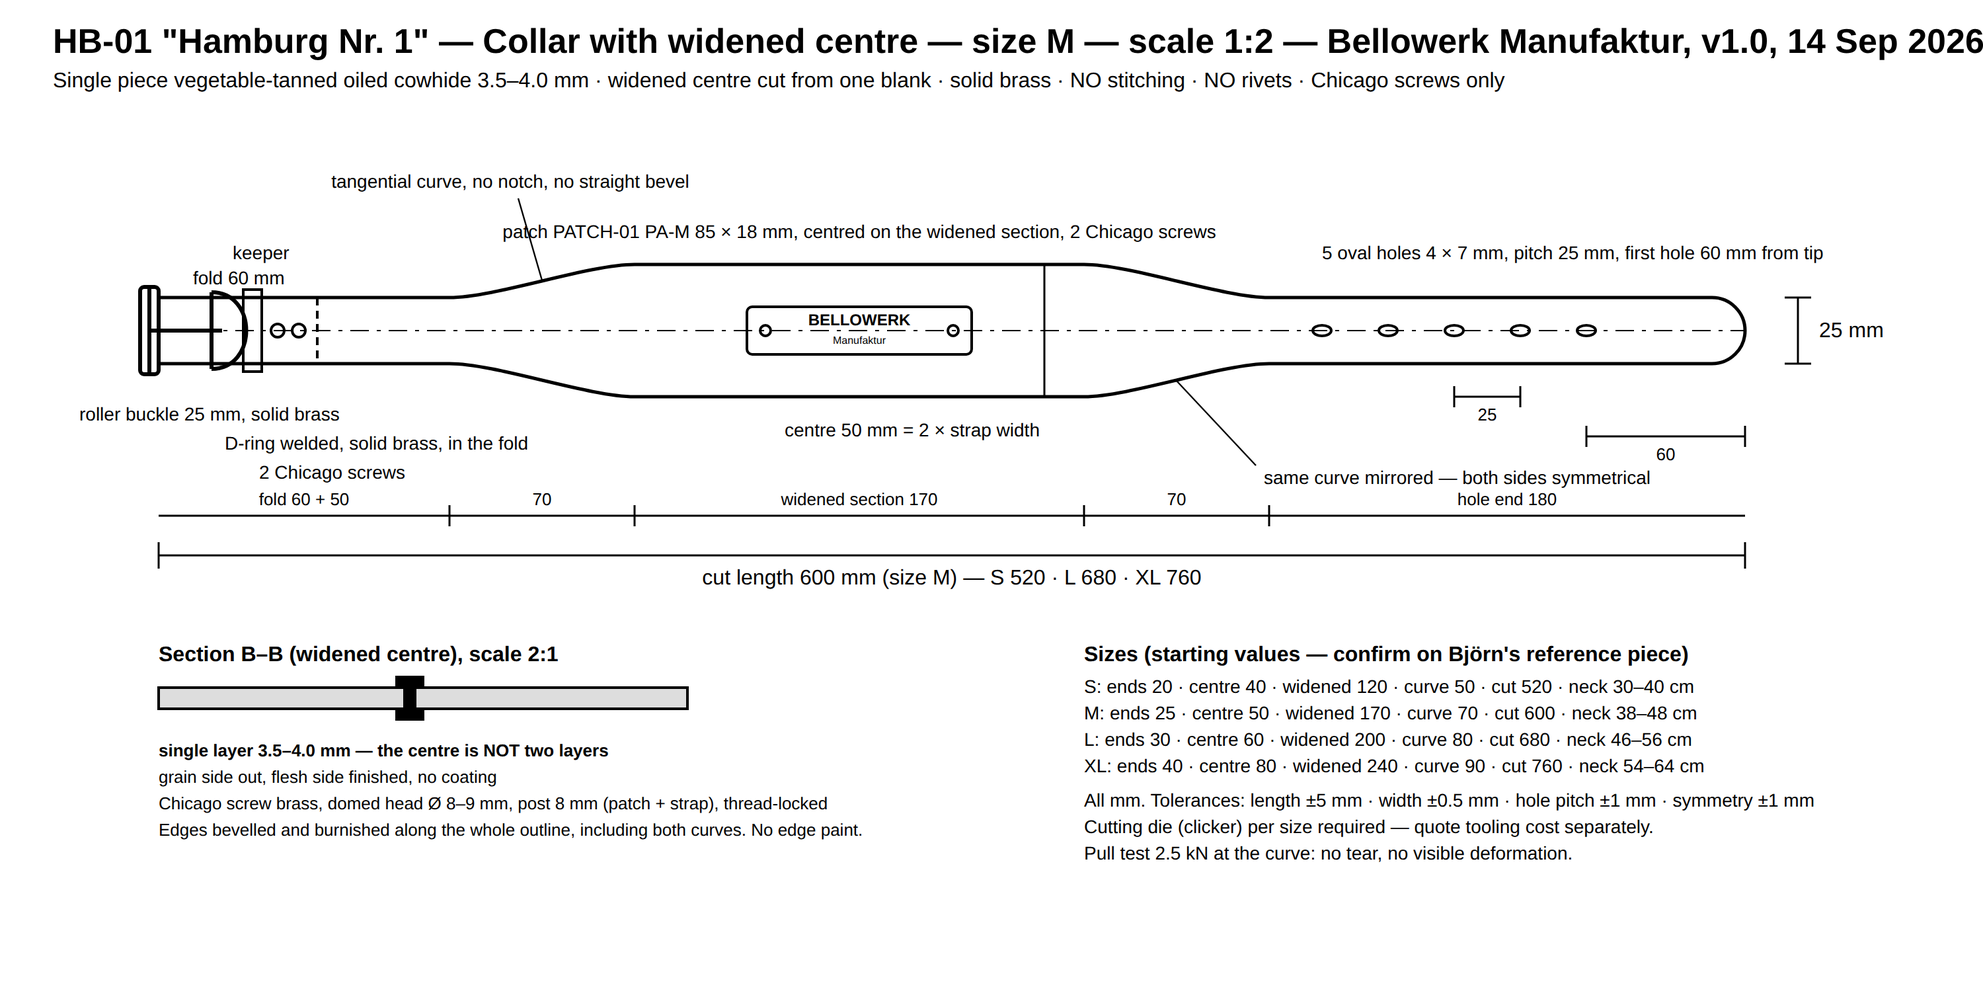
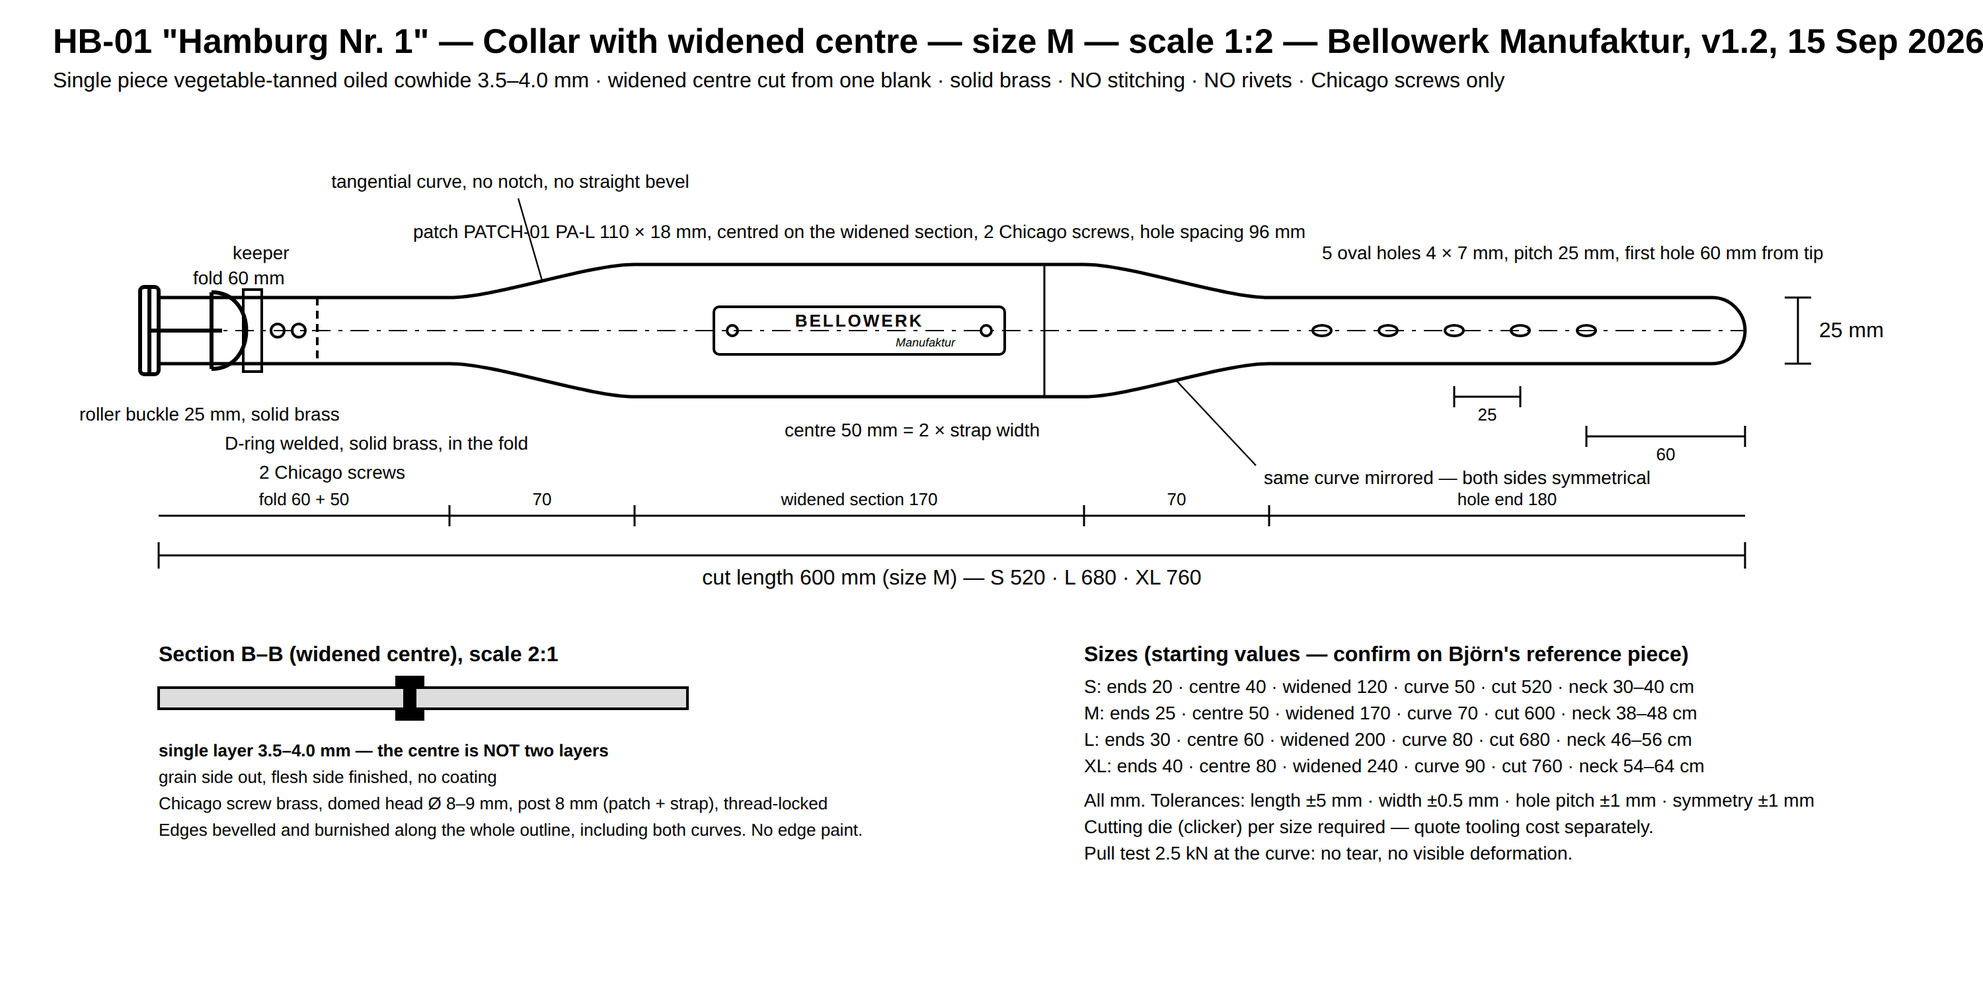
Widen the patch to PA-L and fix the engraving for Hamburg Nr. 1
Björn, 15 Sep: the patch on the widened collar goes 30 % wider, and the
engraving reads "BELLOWERK" on top with "Manufaktur" smaller underneath on the
right. PA-L 110 × 18 mm is now a regular size, not an option for long names, and
it is what HB-01 carries — hole spacing 96 mm, cap height 5.5 mm. The patch
drawing gained the size, the collar drawing shows it in place.

The old name is now marked in the tech pack as not to be produced again.

Adds a rendered view of the finished collar (HB-01-ansicht.svg): grey leather,
brass, the new patch, drawn to the tech pack's dimensions. It is a drawing, not
a photograph — the shop page and the approval folder both say so, and the photo
list stands.

Shop page: origin stays one small line under the manufacturer details, the GPSR
block is in with the address lines still empty.

Claude-Session: https://claude.ai/code/session_01Xfk4JVduxLVZhHZCxPXS15

Changed region(s): [[0.217, 0.2164, 0.651, 0.2474], [0.372, 0.3092, 0.496, 0.3401], [0.868, 0.0309, 0.93, 0.0618]]

diff --git a/sourcing/bellowerk/shop/index.html b/sourcing/bellowerk/shop/index.html
@@ -119,6 +119,11 @@ td{padding:8px 10px 8px 0; border-top:1px solid var(--linie-fein)}
 td.zahl{font-size:13.5px}
 .pflege{font-size:15.5px; color:var(--tinte-weich)}
 .pflege p{margin-bottom:.6em}
+.gpsr{line-height:1.9}
+.feld{
+  display:inline-block; min-width:210px; border-bottom:1px dashed var(--rost);
+  color:var(--rost); font-size:13px; font-family:"Archivo",sans-serif
+}
 
 /* Hinweisblock */
 .klaeren{margin-top:52px; border:1px solid var(--rost); border-radius:3px; padding:20px 22px; background:var(--blatt)}
@@ -145,7 +150,7 @@ td.zahl{font-size:13.5px}
 @media (prefers-reduced-motion:reduce){*{transition:none!important}}
 </style>
 
-<div class="entwurf">Entwurf für den Shop · <b>Alle Produktfotos fehlen noch</b> — die gestrichelten Flächen sind die Aufnahmeliste · Preis und Herkunftsangabe sind Vorschläge</div>
+<div class="entwurf">Entwurf für den Shop · Das Hauptbild ist eine <b>Darstellung, kein Foto</b> — die gestrichelten Flächen sind die Aufnahmeliste · Preis ist ein Vorschlag</div>
 
 <div class="seite">
   <header class="marke">
@@ -157,11 +162,15 @@ td.zahl{font-size:13.5px}
   <div class="produkt">
     <div>
       <figure class="buehne">
-        <img src="media/HB-01-hamburg.png" alt="Maßzeichnung Hamburg Nr. 1: Enden 25 mm, Mitte 50 mm, tangentiale Bögen">
-        <figcaption>Platzhalter: bis die Fotos da sind, steht hier die Werkstattzeichnung. Größe M, Maße in mm.</figcaption>
+        <img src="media/HB-01-ansicht.jpg" alt="Hamburg Nr. 1 in Grau, flach ausgelegt: Messingschnalle, D-Ring, breite Mitte mit graviertem Lederpatch, Lochreihe">
+        <figcaption>Darstellung nach Tech Pack HB-01 v1.2 — <b>keine Fotografie</b>. Sie zeigt Maße, Patchgröße und Beschläge maßstäblich; Foto 1 aus der Liste unten ersetzt sie später.</figcaption>
+      </figure>
+      <figure class="buehne" style="margin-top:14px">
+        <img src="media/HB-01-hamburg.png" alt="Maßzeichnung Hamburg Nr. 1">
+        <figcaption>Werkstattzeichnung, Größe M, Maße in mm — gehört nicht in den Shop, steht hier zum Abgleich.</figcaption>
       </figure>
       <div class="streifen">
-        <div class="platz"><span class="nr">Foto 1</span><span class="was">Gesamt, flach</span><span class="wie">Narbenseite oben, Schnalle links, Lineal daneben</span></div>
+        <div class="platz"><span class="nr">Foto 1</span><span class="was">Gesamt, flach</span><span class="wie">ersetzt die Darstellung oben: Narbenseite oben, Schnalle links, Lineal</span></div>
         <div class="platz"><span class="nr">Foto 2</span><span class="was">Verbreiterung mit Patch</span><span class="wie">schräg, Streiflicht, Gravur lesbar</span></div>
         <div class="platz"><span class="nr">Foto 3</span><span class="was">Bogen im Detail</span><span class="wie">Makro auf die polierte Kante</span></div>
         <div class="platz"><span class="nr">Foto 4</span><span class="was">Messing</span><span class="wie">Schnalle, D-Ring, Buchschraube</span></div>
@@ -208,13 +217,13 @@ td.zahl{font-size:13.5px}
     <h2>Vorn breit, wo der Hund zieht</h2>
     <p>Hamburg Nr. 1 ist aus einem Stück Fettleder geschnitten. Die Mitte läuft über einen weichen Bogen auf die doppelte Breite und legt den Zug auf mehr Fläche — genau dort, wo er ankommt. Zu den Enden hin wird das Band wieder schmal, damit Schnalle und Lochreihe schlank bleiben und das Halsband unter dem Fell verschwindet.</p>
     <p>Breiter, nicht dicker: es bleibt eine Lage Leder, 3,5 bis 4 Millimeter, durchgefärbt und pflanzlich gegerbt. Kein Futter, keine Naht, keine Niete. Zusammengehalten wird alles von Buchschrauben aus massivem Messing — genau wie Schnalle und D-Ring. Das Messing ist unlackiert und dunkelt nach. Das ist gewollt; wer es blank mag, poliert es mit einem weichen Tuch.</p>
-    <p>Auf der Verbreiterung sitzt der gravierte Lederpatch. Er ist der einzige Schmuck, den das Halsband hat.</p>
+    <p>Auf der Verbreiterung sitzt der gravierte Lederpatch aus cognacfarbenem Leder, 110 Millimeter lang — er nutzt die breite Mitte aus. Er ist der einzige Schmuck, den das Halsband hat.</p>
     <ul class="merkmale">
       <li><span>Fettleder, pflanzlich gegerbt, durchgefärbt, 3,5–4,0 mm</span></li>
       <li><span>Rollschnalle, D-Ring und Buchschrauben aus massivem Messing</span></li>
       <li><span>Ohne Naht, ohne Niete, ohne Kunststoff</span></li>
       <li><span>Kanten geschrägt und poliert, auch in den Bögen</span></li>
-      <li><span>Lederpatch cognac, lasergraviert</span></li>
+      <li><span>Lederpatch cognac, lasergraviert, 110 × 18 mm</span></li>
       <li><span>Eine Saison an fremden Hunden getestet, bevor das Modell in den Verkauf geht</span></li>
     </ul>
   </section>
@@ -246,8 +255,15 @@ td.zahl{font-size:13.5px}
     <section>
       <h3>Herstellerangaben</h3>
       <div class="pflege">
-        <p>Bellowerk Manufaktur, Hamburg<br><span style="color:var(--rost)">Postanschrift fehlt noch — GPSR-Pflichtangabe</span></p>
-        <p>Modell HB-01 · Chargennummer auf dem Anhänger<br><span style="color:var(--rost)">Herkunftsangabe noch zu entscheiden</span></p>
+        <p class="gpsr">
+          Bellowerk Manufaktur<br>
+          <span class="feld">Straße und Hausnummer</span><br>
+          <span class="feld">PLZ und Ort</span><br>
+          <span class="feld">E-Mail</span>
+        </p>
+        <p style="font-size:13.5px; color:var(--tinte-leise); margin-top:14px">
+          Modell HB-01 · Charge auf dem Anhänger · Entwurf und Prüfung in Hamburg, gefertigt nach unserer Zeichnung, Made in China
+        </p>
       </div>
     </section>
   </div>
@@ -255,11 +271,11 @@ td.zahl{font-size:13.5px}
   <section class="klaeren">
     <h3>Bevor das online geht</h3>
     <ol>
-      <li><b>Die Herkunft muss stimmen.</b> Im Markenwissen steht „aus eigener Werkstatt“. Wenn Hamburg Nr. 1 in China gefertigt wird, darf dieser Satz so nicht im Shop stehen. Vorschlag: „In Hamburg entworfen und geprüft, gefertigt nach unserer Zeichnung“ plus „Made in China“ auf dem Anhänger — du entscheidest die Formulierung.</li>
-      <li><b>GPSR-Anschrift.</b> Name und Postanschrift des Inverkehrbringers sind seit Dezember 2024 Pflicht, im Shop und auf dem Anhänger.</li>
-      <li><b>Der Patch trägt noch den alten Namen.</b> Auf allen vorhandenen Stücken steht „Herr Bello & Frau Wuff“. Für Fotos und Verkauf brauchen wir Stücke mit „BELLOWERK“ — also erst das Vektorlogo, dann das Goldmuster, dann das Shooting.</li>
+      <li><b>Deine Anschrift für die GPSR-Angabe.</b> Die Zeilen stehen oben, sie sind nur noch leer: Straße, PLZ und Ort, E-Mail. Pflicht seit Dezember 2024, im Shop und auf dem Anhänger. Sag sie mir, dann steht sie drin.</li>
+      <li><b>Der Patch trägt auf allen vorhandenen Stücken noch den alten Namen.</b> Die Gravur ist jetzt festgeschrieben — „BELLOWERK“ oben, „Manufaktur“ kleiner rechts darunter, Patch 110 × 18 mm. Es fehlt deine Vektordatei, dann Goldmuster, dann das Shooting.</li>
       <li><b>Preis 99 € bestätigen</b>, und ob Hamburg Nr. 4 (das glatte Halsband) darunter liegt — sonst steht die Serie ohne Staffel da.</li>
     </ol>
+    <p style="font-size:14px; color:var(--tinte-weich); margin:14px 0 0">Erledigt am 15.9.: Herkunftsangabe bleibt klein und steht als eine Zeile bei den Herstellerangaben.</p>
   </section>
 
   <section class="fotoliste">
@@ -282,7 +298,7 @@ td.zahl{font-size:13.5px}
     </p>
   </section>
 
-  <p class="fuss">Entwurf vom 14. September 2026 · Inhalte aus dem Tech Pack HB-01 „Hamburg Nr. 1“ und dem Markenwissen · Der Kauf-Knopf tut hier nichts, die Seite ist eine Vorlage für den Shop.</p>
+  <p class="fuss">Entwurf vom 15. September 2026 · Inhalte aus dem Tech Pack HB-01 „Hamburg Nr. 1“ und dem Markenwissen · Der Kauf-Knopf tut hier nichts, die Seite ist eine Vorlage für den Shop.</p>
 </div>
 
 <script>

diff --git a/sourcing/bellowerk/freigabe/index.html b/sourcing/bellowerk/freigabe/index.html
@@ -224,18 +224,22 @@ textarea::placeholder{color:var(--tinte-leise)}
   "meta": [
     "Bellowerk Manufaktur, Hamburg",
     "Abteilung 01 Innovation · 05 Einkauf China",
-    "Stand: 14. September 2026",
+    "Stand: 15. September 2026",
     "Quelle: sourcing/bellowerk"
   ],
   "modelle": [
     {
       "code": "HB-01",
       "name": "Hamburg Nr. 1 — Halsband mit Mittelverbreiterung",
-      "stand": "Tech Pack v1.1",
+      "stand": "Tech Pack v1.2",
       "zeichnung": "media/HB-01-hamburg.png",
       "zeichnungText": "HB-01, Größe M: Enden 25 mm, Mitte 50 mm, tangentiale Bögen 70 mm, Patch mittig auf der Verbreiterung",
-      "fotos": [],
-      "fehltFoto": "Dein Foto vom 13. Juni 2022 (graues Halsband, cognac Patch, Messingschnalle) steckt bisher nur im Chat. Leg es bitte als bilder/HB-01-hamburg-gesamt.jpg ins Repo, dann steht es hier und geht an den Lieferanten mit.",
+      "fotos": [
+        {
+          "src": "media/HB-01-ansicht.jpg",
+          "text": "Darstellung nach Tech Pack, keine Fotografie: Grau, Messing, Patch PA-L 110 mm auf der Verbreiterung"
+        }
+      ],
       "fakten": [
         [
           "Name",
@@ -267,7 +271,7 @@ textarea::placeholder{color:var(--tinte-leise)}
         ],
         [
           "Patch",
-          "PATCH-01 PA-M 85 × 18 mm, mittig auf der Verbreiterung, 2 Buchschrauben"
+          "PATCH-01 PA-L 110 × 18 mm, mittig auf der Verbreiterung, Lochabstand 96 mm — 30 % länger als bisher, entschieden am 15.9.2026"
         ],
         [
           "Beschläge",
@@ -280,6 +284,10 @@ textarea::placeholder{color:var(--tinte-leise)}
         [
           "Vorschlag Order",
           "Muster 1× M grau + 1× M oliv, dann 60 Stück — S 10 · M 20 · L 20 · XL 10"
+        ],
+        [
+          "Noch offen",
+          "Foto vom echten Stück (bilder/HB-01-hamburg-gesamt.jpg) und dein Vektorlogo für die Gravur"
         ]
       ],
       "bau": [
@@ -307,15 +315,6 @@ textarea::placeholder{color:var(--tinte-leise)}
             "170 mm wie gezeichnet",
             "Länger, bis 220 mm",
             "Messe ich nach"
-          ]
-        },
-        {
-          "id": "hb01-patch",
-          "frage": "Patch auf der Verbreiterung",
-          "optionen": [
-            "PA-M 85 mm wie bisher",
-            "Längeres PA-L 110 mm",
-            "Nach dem Muster entscheiden"
           ]
         },
         {
@@ -631,9 +630,9 @@ textarea::placeholder{color:var(--tinte-leise)}
     {
       "code": "PATCH-01",
       "name": "Lederpatch, graviert",
-      "stand": "Tech Pack v1.1",
+      "stand": "Tech Pack v1.2",
       "zeichnung": "media/PATCH-01-lederpatch.png",
-      "zeichnungText": "PATCH-01: PA-M 85 × 18 mm und PA-S 65 × 14 mm, Bohrbild, Schriftfeld (Logo ist Platzhalter)",
+      "zeichnungText": "PATCH-01: PA-L 110 × 18 mm (Hamburg Nr. 1), PA-M 85 × 18 mm, PA-S 65 × 14 mm, Bohrbild, Schriftfeld",
       "fotos": [
         {
           "src": "media/PATCH-01-und-flechtung-detail.jpg",
@@ -659,7 +658,7 @@ textarea::placeholder{color:var(--tinte-leise)}
         ],
         [
           "Größen",
-          "PA-M 85 × 18 mm für 25–40 mm Bänder · PA-S 65 × 14 mm für 20 mm"
+          "PA-L 110 × 18 mm auf Hamburg Nr. 1 · PA-M 85 × 18 mm auf glatten Bändern 25–40 mm · PA-S 65 × 14 mm auf 20 mm"
         ],
         [
           "Gravur",
@@ -667,11 +666,11 @@ textarea::placeholder{color:var(--tinte-leise)}
         ],
         [
           "Schrift",
-          "Zeile 1 Versalien gesperrt +20 % · Zeile 2 Schreibschrift, rechtsbündig darunter"
+          "Zwei Zeilen, feste Reihenfolge: „BELLOWERK“ oben in gesperrten Versalien, „Manufaktur“ kleiner rechts darunter in Schreibschrift"
         ],
         [
           "Löcher",
-          "2 × Ø 4,5 mm, Abstand 71 mm (PA-M) bzw. 51 mm (PA-S)"
+          "2 × Ø 4,5 mm, 7 mm von den Enden → Abstand 96 (PA-L) / 71 (PA-M) / 51 mm (PA-S)"
         ],
         [
           "Befestigung",
@@ -679,11 +678,11 @@ textarea::placeholder{color:var(--tinte-leise)}
         ],
         [
           "Erste Order",
-          "500 Stück PA-M + 500 Stück PA-S, inklusive Schrauben"
+          "je 400 Stück PA-L, PA-M und PA-S, inklusive Buchschrauben"
         ]
       ],
       "bau": [],
-      "warnung": "Auf allen vorhandenen Stücken steht noch HERR BELLO & FRAU WUFF. Das Layout bleibt, der Name wird BELLOWERK — dafür braucht der Lieferant deine Vektordatei mit Schrift in Pfaden. Ohne die Datei kann die Gravur nicht freigegeben werden.",
+      "warnung": "Auf allen vorhandenen Stücken steht noch HERR BELLO & FRAU WUFF — dieser Patch darf so nicht noch einmal produziert werden. Layout bleibt, Name wird BELLOWERK. Dafür braucht der Lieferant deine Vektordatei mit Schrift in Pfaden; ohne die Datei keine Gravurfreigabe.",
       "fragen": [
         {
           "id": "patch-name",
@@ -824,7 +823,7 @@ textarea::placeholder{color:var(--tinte-leise)}
 </script>
 
 <script id="bw-state" type="application/json">
-{"v":1,"modelle":{},"fragen":{},"aktualisiert":null}
+{"v":1,"modelle":{"HB-01":{"status":"freigegeben","notiz":""}},"fragen":{},"aktualisiert":"2026-09-14T20:51:32.388Z"}
 </script>
 
 <script id="bw-js">

diff --git a/sourcing/bellowerk/freigabe/bauen.py b/sourcing/bellowerk/freigabe/bauen.py
@@ -45,8 +45,17 @@ ZEICHNUNGEN = [
 ]
 
 
+# Die Darstellung des fertigen Halsbands liegt als SVG im Shop-Ordner und wird
+# als JPG mitgeliefert, weil sie in Freigabe-Mappe und Shop-Seite steht.
+ANSICHT = ORDNER.parent / "shop" / "HB-01-ansicht.png"
+
+
 def main() -> None:
     ZIEL.mkdir(exist_ok=True)
+    if ANSICHT.exists():
+        bild = Image.open(ANSICHT).convert("RGB")
+        bild.thumbnail((1960, 1960), Image.LANCZOS)
+        bild.save(ZIEL / "HB-01-ansicht.jpg", "JPEG", quality=88, optimize=True, progressive=True)
     gesamt = 0
     for name in FOTOS:
         bild = Image.open(QUELLE / "bilder" / name).convert("RGB")

diff --git a/sourcing/bellowerk/specs/PATCH-01-markenpatch.md b/sourcing/bellowerk/specs/PATCH-01-markenpatch.md
@@ -1,7 +1,8 @@
-# PATCH-01 — Leather Brand Patch "BELLOWERK / Manufaktur" (Tech Pack v1.1, 9 Sep 2026)
+# PATCH-01 — Leather Brand Patch "BELLOWERK / Manufaktur" (Tech Pack v1.2, 15 Sep 2026)
 
 Reference photos: `bilder/HB-04-detail-patch.jpg`, `bilder/HB-04-farben-patch.jpg` (current patch reads
-"HERR BELLO & FRAU WUFF / Manufaktur" — new patch uses the same layout with the new name).
+"HERR BELLO & FRAU WUFF / Manufaktur" — **wrong name, must not be produced again**. Same layout,
+new name: "BELLOWERK" on top, "Manufaktur" smaller underneath on the right.)
 Drawing: `zeichnungen/PATCH-01-lederpatch.png`. Artwork: Björn supplies vector file; placeholder in drawing.
 
 ## Design (as on the existing products)
@@ -16,12 +17,12 @@ in a handwritten script, right-aligned under line 1. No stitching, no glue as th
 | | |
 |---|---|
 | Leather | Vegetable-tanned cowhide, full grain, **2.0–2.5 mm**, colour cognac / medium brown (same on all strap colours: grey, dark brown, olive, cognac). Firm, smooth grain for clean engraving. |
-| Sizes | **PA-M 85 × 18 mm** for 25–40 mm straps (collar M/L/XL, lead 25 mm) · **PA-S 65 × 14 mm** for 20 mm straps (lead LE-01, hand loop HS-01, collar S). Corner radius 3 mm. |
-| Lettering | Line 1 "BELLOWERK": spaced geometric sans-serif capitals as in the existing logo (Futura/Josefin Sans style, tracking +20 %), cap height 4.5 mm (PA-M) / 3.5 mm (PA-S). Line 2 "Manufaktur": brush script as in the logo, x-height 2.5 mm / 2.0 mm, placed under the right half of line 1. Engraving depth 0.2–0.3 mm, dark burn, no paint, no foil. Björn supplies the vector logo; the drawing is a placeholder. |
-| Holes | 2 × Ø 4.5 mm, hole centres 7 mm from each end → spacing **71 mm** (PA-M) / **51 mm** (PA-S) |
+| Sizes | **PA-L 110 × 18 mm** on HB-01 "Hamburg Nr. 1" — the widened centre carries the long patch (Björn, 15 Sep 2026: 30 % wider than PA-M) · **PA-M 85 × 18 mm** for plain 25–40 mm straps (HB-04, HB-02) · **PA-S 65 × 14 mm** for 20 mm straps (lead LE-01, collar S). Corner radius 3 mm. |
+| Lettering | **Two lines, always in this order: "BELLOWERK" on top, "Manufaktur" smaller underneath, set to the right half of line 1.** Line 1: spaced geometric sans-serif capitals (Futura/Josefin Sans style, tracking +20 %), cap height 5.5 mm (PA-L) / 4.5 mm (PA-M) / 3.5 mm (PA-S). Line 2: brush script, x-height 3.0 / 2.5 / 2.0 mm. Engraving depth 0.2–0.3 mm, dark burn, no paint, no foil. Björn supplies the vector logo; the drawing is a placeholder. |
+| Holes | 2 × Ø 4.5 mm, hole centres 7 mm from each end → spacing **96 mm** (PA-L) / **71 mm** (PA-M) / **51 mm** (PA-S) |
 | Screws | Chicago screws solid brass, head Ø 8–9 mm domed (as on photos), post 8 mm (patch + strap), thread-locked |
 | Edges | Cut clean, lightly bevelled, burnished, no edge paint |
-| Position | Collar: centred on strap, 30 mm behind buckle fold. Lead: 80 mm from hook A. Hand loop: on the overlap. |
+| Position | HB-01: centred on the widened section, both directions. HB-04/HB-02: centred on strap, 30 mm behind the buckle fold. Lead LE-01: 80 mm from hook A. |
 
 Artwork: vector (AI/PDF/SVG), text converted to outlines, 1:1, black = engraved. Min line width 0.3 mm,
 min gap 0.5 mm. Supplier to send a digital proof and one engraved sample before production.
@@ -30,8 +31,7 @@ min gap 0.5 mm. Supplier to send a digital proof and one engraved sample before 
 
 Same patch, but engraved with the **dog's name in spaced serif capitals** (as "AUGUST", "TILDA",
 "ENZO" in `bilder/PATCH-01-namenspatch-august.jpg`, `PATCH-01-namensgravur-detail.jpg`): one line,
-cap height 6 mm (PA-M) / 5 mm (PA-S), tracking +20 %, max. 10 characters (longer names → patch
-PA-L 110 × 18 mm). Björn's decision: **first order = Bellowerk patch only, no names.** Ask the factory
+cap height 6 mm (PA-M) / 5 mm (PA-S), tracking +20 %, max. 10 characters (longer names → the patch is already PA-L on HB-01). Björn's decision: **first order = Bellowerk patch only, no names.** Ask the factory
 now whether they can engrave single pieces on demand later and at what price/lead time per piece
 (question 5 below), so the option is open.
 
@@ -47,14 +47,14 @@ PU or bonded leather, stitching.
 
 ## Quantity
 
-Samples: 5 pcs each size, engraved, with screws. Then **500 pcs PA-M + 500 pcs PA-S** with screws.
+Samples: 5 pcs each size, engraved, with screws. Then **400 pcs PA-L + 400 pcs PA-M + 400 pcs PA-S** with screws.
 Preferred: the collar/lead factory makes the patch in-house (same hide family). If they cannot laser
 engrave, a patch supplier delivers to the factory.
 
 ## Quotation questions
 
 1. Do you laser-engrave leather in-house? Send a photo of an engraved sample.
-2. Unit price 500 / 1000 pcs, each size, incl. brass screws
+2. Unit price 400 / 1000 pcs, each size (PA-L, PA-M, PA-S), incl. brass screws
 3. Sample cost/time, lead time
 4. Leather colour match to our photos — send swatches of cognac / medium brown
 5. Later option: engraving of individual dog names (serif capitals) on single patches — possible? Price and lead time per piece?

diff --git a/sourcing/bellowerk/specs/HB-01-hamburg.md b/sourcing/bellowerk/specs/HB-01-hamburg.md
@@ -1,4 +1,4 @@
-# HB-01 "Hamburg Nr. 1" — Collar with Widened Centre (Tech Pack v1.1, 14 Sep 2026)
+# HB-01 "Hamburg Nr. 1" — Collar with Widened Centre (Tech Pack v1.2, 15 Sep 2026)
 
 Bellowerk Manufaktur, Hamburg, Germany. Contact: Björn (owner).
 Drawing: `zeichnungen/HB-01-hamburg.png`. Reference: Björn's own piece, photographed 13 June 2022
@@ -26,7 +26,7 @@ As HB-04 without exception:
 | D-ring | Welded, ground smooth, solid brass, inner width = end strap width, wire Ø 4 mm (20/25 mm) or 5 mm (30/40 mm), min. 3 kN. |
 | Keeper | Leather loop, same leather, 1 Chicago screw. |
 | Screws | Chicago screws, solid brass, domed head Ø 8–9 mm (as on the photo), post 8 mm, thread-locked. |
-| Patch | PATCH-01 PA-M 85 × 18 mm, 2 Chicago screws, centred on the widened section. |
+| Patch | PATCH-01 **PA-L 110 × 18 mm** (hole spacing 96 mm), 2 Chicago screws, centred on the widened section — the long patch is part of this model, not an option. |
 | Edges | Bevelled both sides, burnished, **including both curves**. No edge paint. |
 | Holes | Oval punch, 5 holes, pitch 25 mm, 4 × 7 mm (20/25 mm ends) or 5 × 8 mm (30/40 mm). |
 
@@ -60,7 +60,7 @@ Tip: rounded English point, radius = half the end width.
    tears.
 3. Buckle fold: strap through the buckle, folded back 60 mm, D-ring in the fold 20 mm behind the
    buckle, keeper 15 mm behind the D-ring, fold fixed with 2 Chicago screws, D-ring captured.
-4. Patch PATCH-01 PA-M centred on the widened section (centred in both directions), 2 Chicago screws,
+4. Patch PATCH-01 PA-L centred on the widened section (centred in both directions), 2 Chicago screws,
    heads on the grain side.
 5. Grain side out. Flesh side lightly finished, no coating. Edges bevelled and burnished all round.
 
